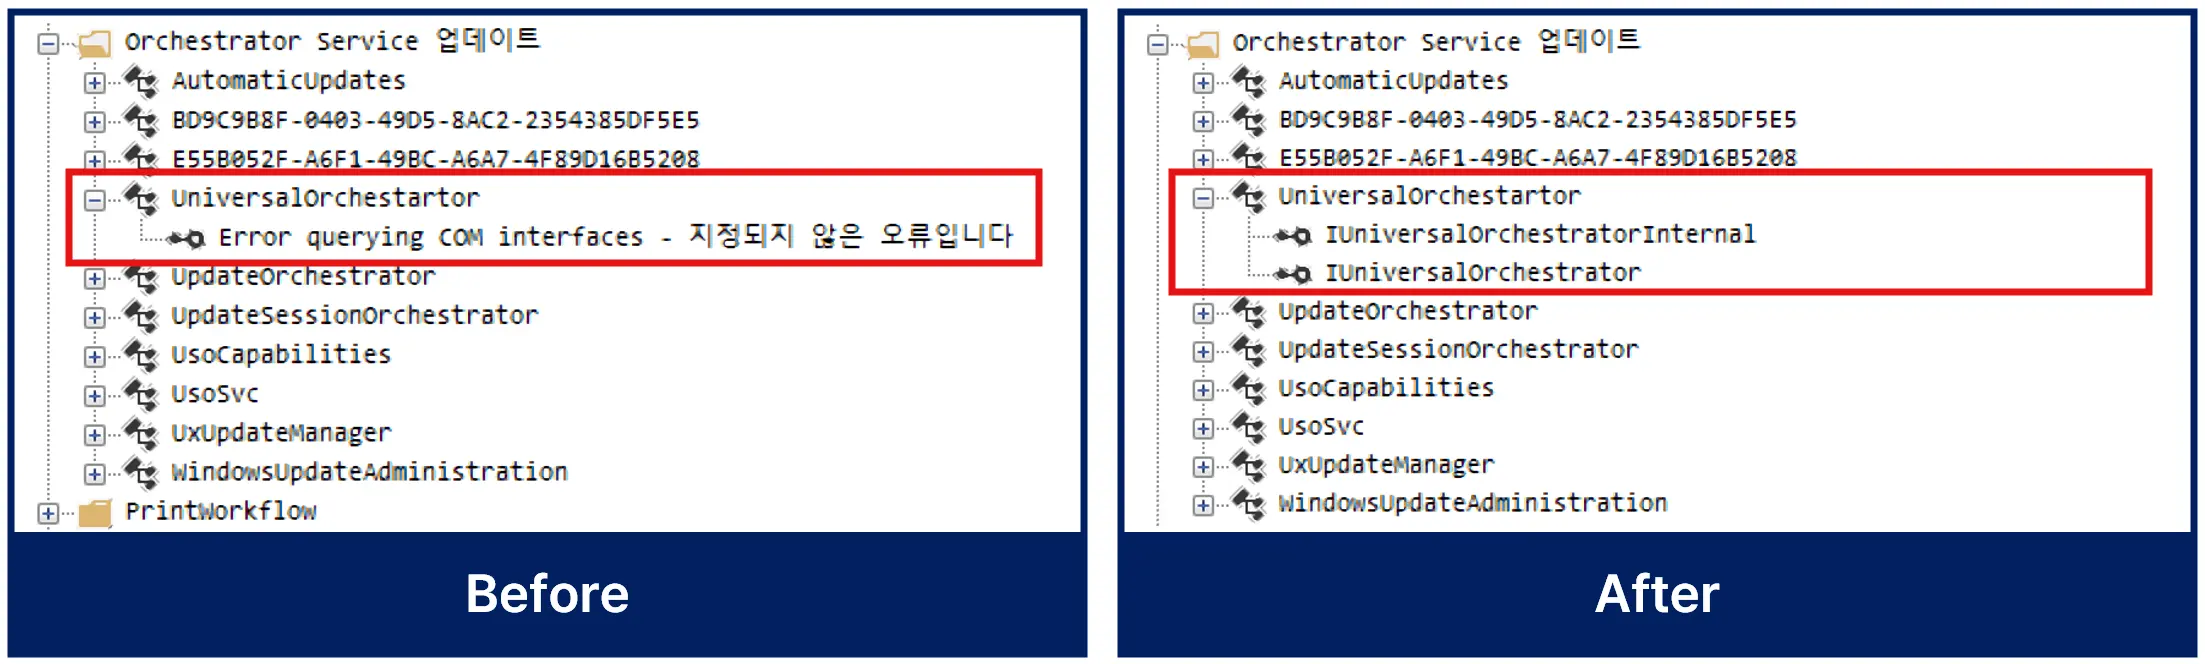
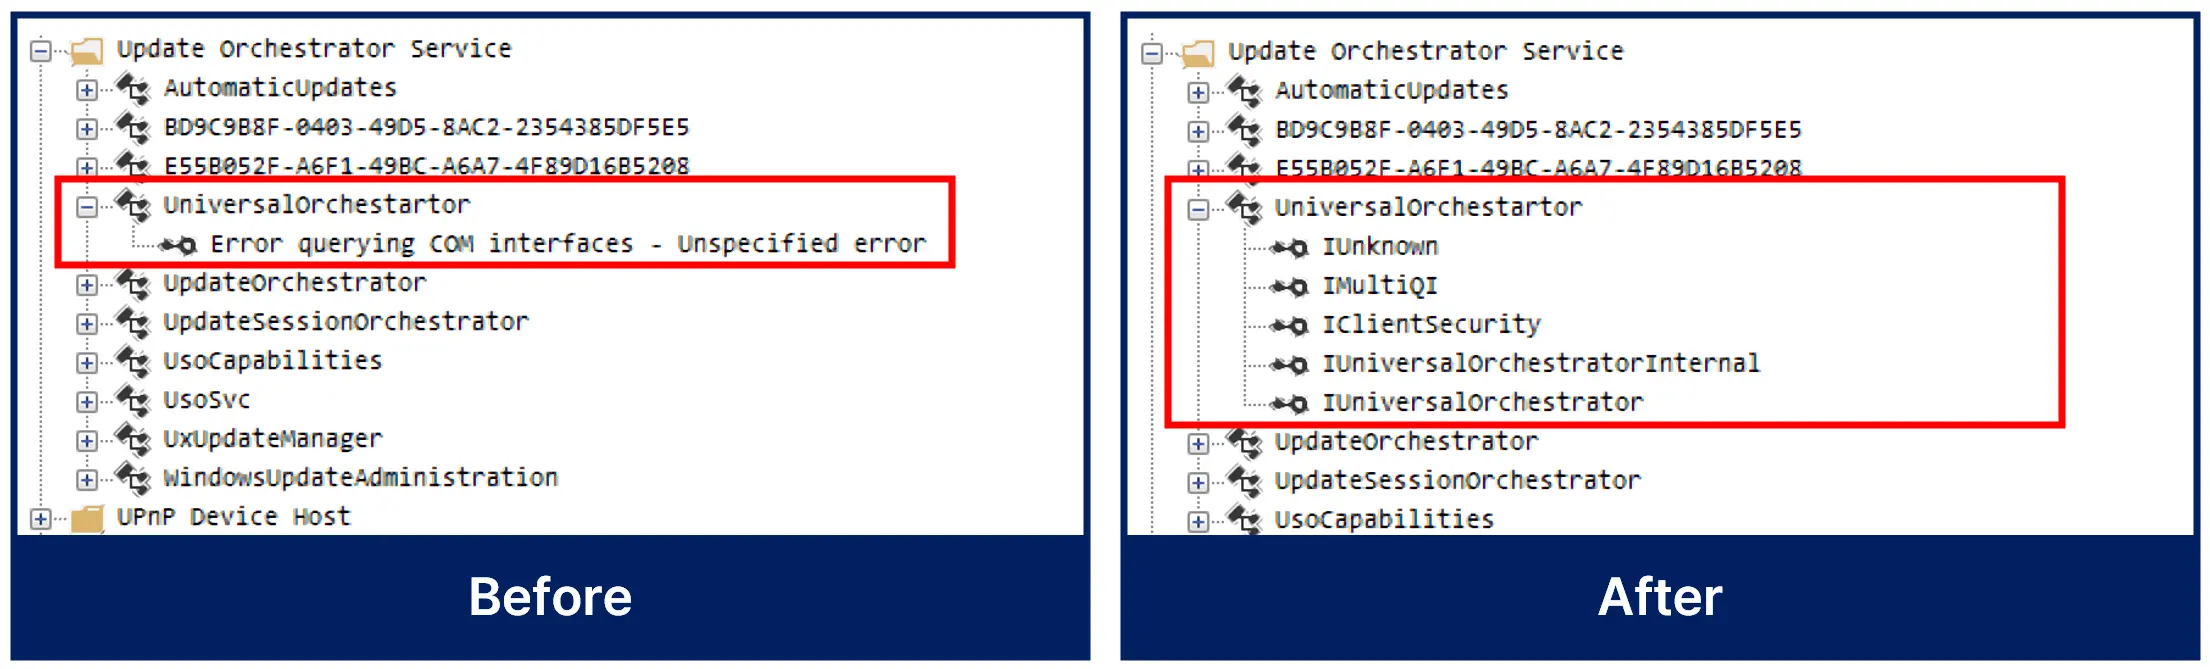
update README

Changed region(s): [[0.0, 0.0, 1.0, 0.994], [0.2159, 0.8735, 0.3084, 0.9337], [0.7093, 0.8735, 0.8018, 0.9337]]

diff --git a/README.md b/README.md
@@ -5,7 +5,7 @@
 (BoB13-MSRC_GASAN)</code></h1>
   <p>
     <strong>Enhanced oleviewdotnet</strong><br>
-    show more interfaces, resolve IDL method name, provide class object call sequence
+    show more interfaces, resolve IDL method name, provide interface object call sequence
   </p>
   <p>
     Derived from <a href="https://github.com/tyranid/oleviewdotnet">oleviewdotnet</a> of tyranid(James Forshaw)
@@ -20,7 +20,7 @@ The existing oleviewdotnet has a problem where the method name appears as `Proc{
 
 Also, there is a problem where the corresponding interface is not output for certain classes.
 
-This repository has improved this part and added convenient features such as providing class object call sequence.
+This repository has improved this part and added convenient features such as providing interface object call sequence.
 
 ---
 
@@ -53,18 +53,18 @@ This repository has improved this part and added convenient features such as pro
 ---
 
 ## Additional features
-### Class object Call Sequence
+### Interface object Call Sequence
 <p align='center'>
 <img src='pics/callsequence.webp'>
 </p>
 
-- **Lists all sequence of other class objects that can be obtained from an exposed COM class.**
-- You can obtain various class objects from exposed COM classes, such as IWallet->IWalletItemManager->IWalletItemList->IWalletItem, and understanding them is deep and complex.
-- From a vulnerability research perspective, it easily identifies the scope of class objects that can be accessed and analyzed.
+- **Lists all sequence of other interface objects that can be obtained from an exposed COM interface.**
+- You can obtain various interface objects from exposed COM interfaces, such as IWallet->IWalletItemManager->IWalletItemList->IWalletItem, and understanding them is deep and complex.
+- From a vulnerability research perspective, it easily identifies the scope of interface objects that can be accessed and analyzed.
 ---
 
 ## Achievement
 - We can extract more 91 methods.
 - We can automatically find the vtable of an interface and resolve IDL method names with high accuracy.
-- We can easily determine the target scope of the COM class
+- We can easily determine the target scope of the COM interface
 - As a result, a dramatic reduction in the initial analysis time for vulnerability analysis is possible.
